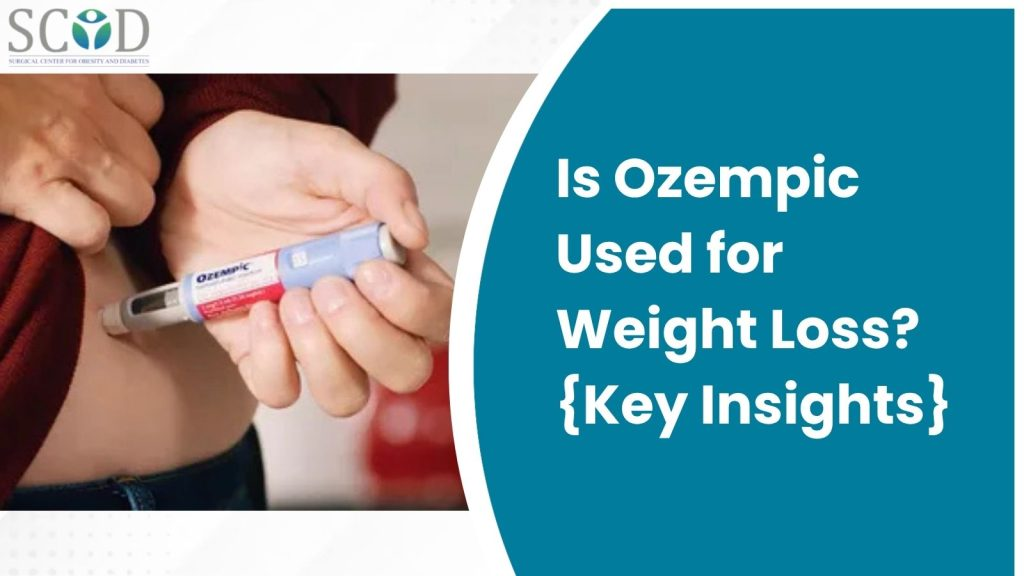
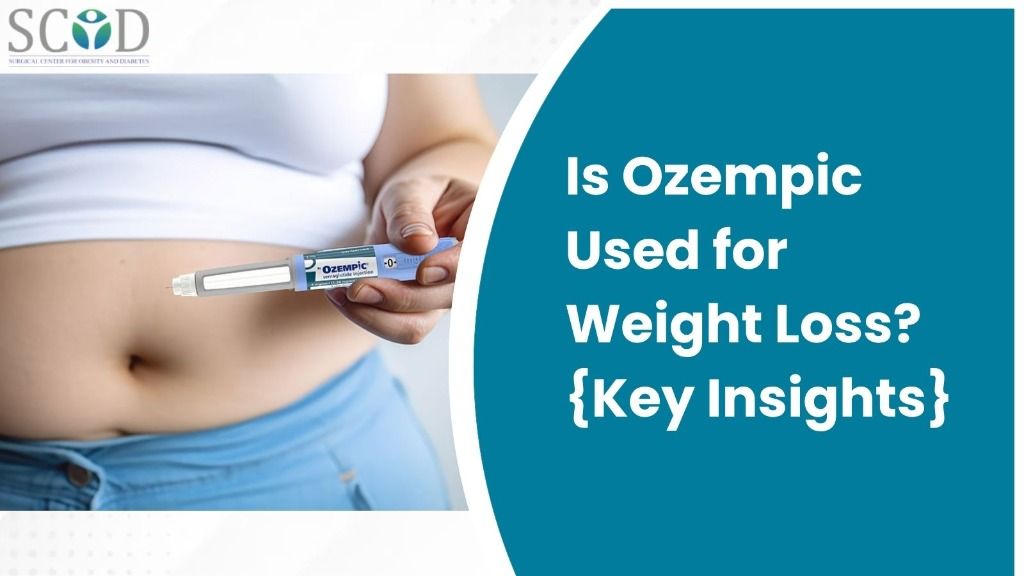
Update Ozempic blog post thumbnail image and references

diff --git a/blog/index.php b/blog/index.php
@@ -205,7 +205,7 @@ include __DIR__ . '/../includes/header.php';
             <article class="blog-card bg-white rounded-2xl overflow-hidden shadow-lg border border-gray-100 hover:shadow-xl transition-all hover:-translate-y-1" data-category="weight-loss">
                 <div class="relative aspect-video overflow-hidden bg-blue-50">
                     <div class="absolute top-4 left-4 bg-white px-3 py-1 rounded-full text-xs font-bold text-gray-600 uppercase tracking-wider border shadow-sm z-10">Weight Loss</div>
-                    <img src="/blog/media/images/Are-Weight-Loss-Injections-Safe.jpg" alt="Is Ozempic Used for Weight Loss?" class="w-full h-full object-cover hover:scale-105 transition-transform duration-500" loading="lazy">
+                    <img src="/blog/media/images/Is-Ozempic-Used-for-Weight-Loss.jpg" alt="Is Ozempic Used for Weight Loss?" class="w-full h-full object-cover hover:scale-105 transition-transform duration-500" loading="lazy">
                 </div>
                 <div class="p-6">
                     <div class="flex items-center gap-3 text-xs text-gray-400 font-semibold uppercase tracking-wider mb-4">

diff --git a/blog/is-ozempic-used-for-weight-loss.php b/blog/is-ozempic-used-for-weight-loss.php
@@ -35,7 +35,7 @@ include __DIR__ . '/../includes/header.php';
 
             <!-- Featured Image -->
             <figure class="mb-10">
-                <img src="/blog/media/images/Are-Weight-Loss-Injections-Safe.jpg" alt="Is Ozempic Used for Weight Loss? {Key Insights}" class="w-full rounded-2xl shadow-lg">
+                <img src="/blog/media/images/Is-Ozempic-Used-for-Weight-Loss.jpg" alt="Is Ozempic Used for Weight Loss? {Key Insights}" class="w-full rounded-2xl shadow-lg">
             </figure>
 
             <!-- Article Content -->
